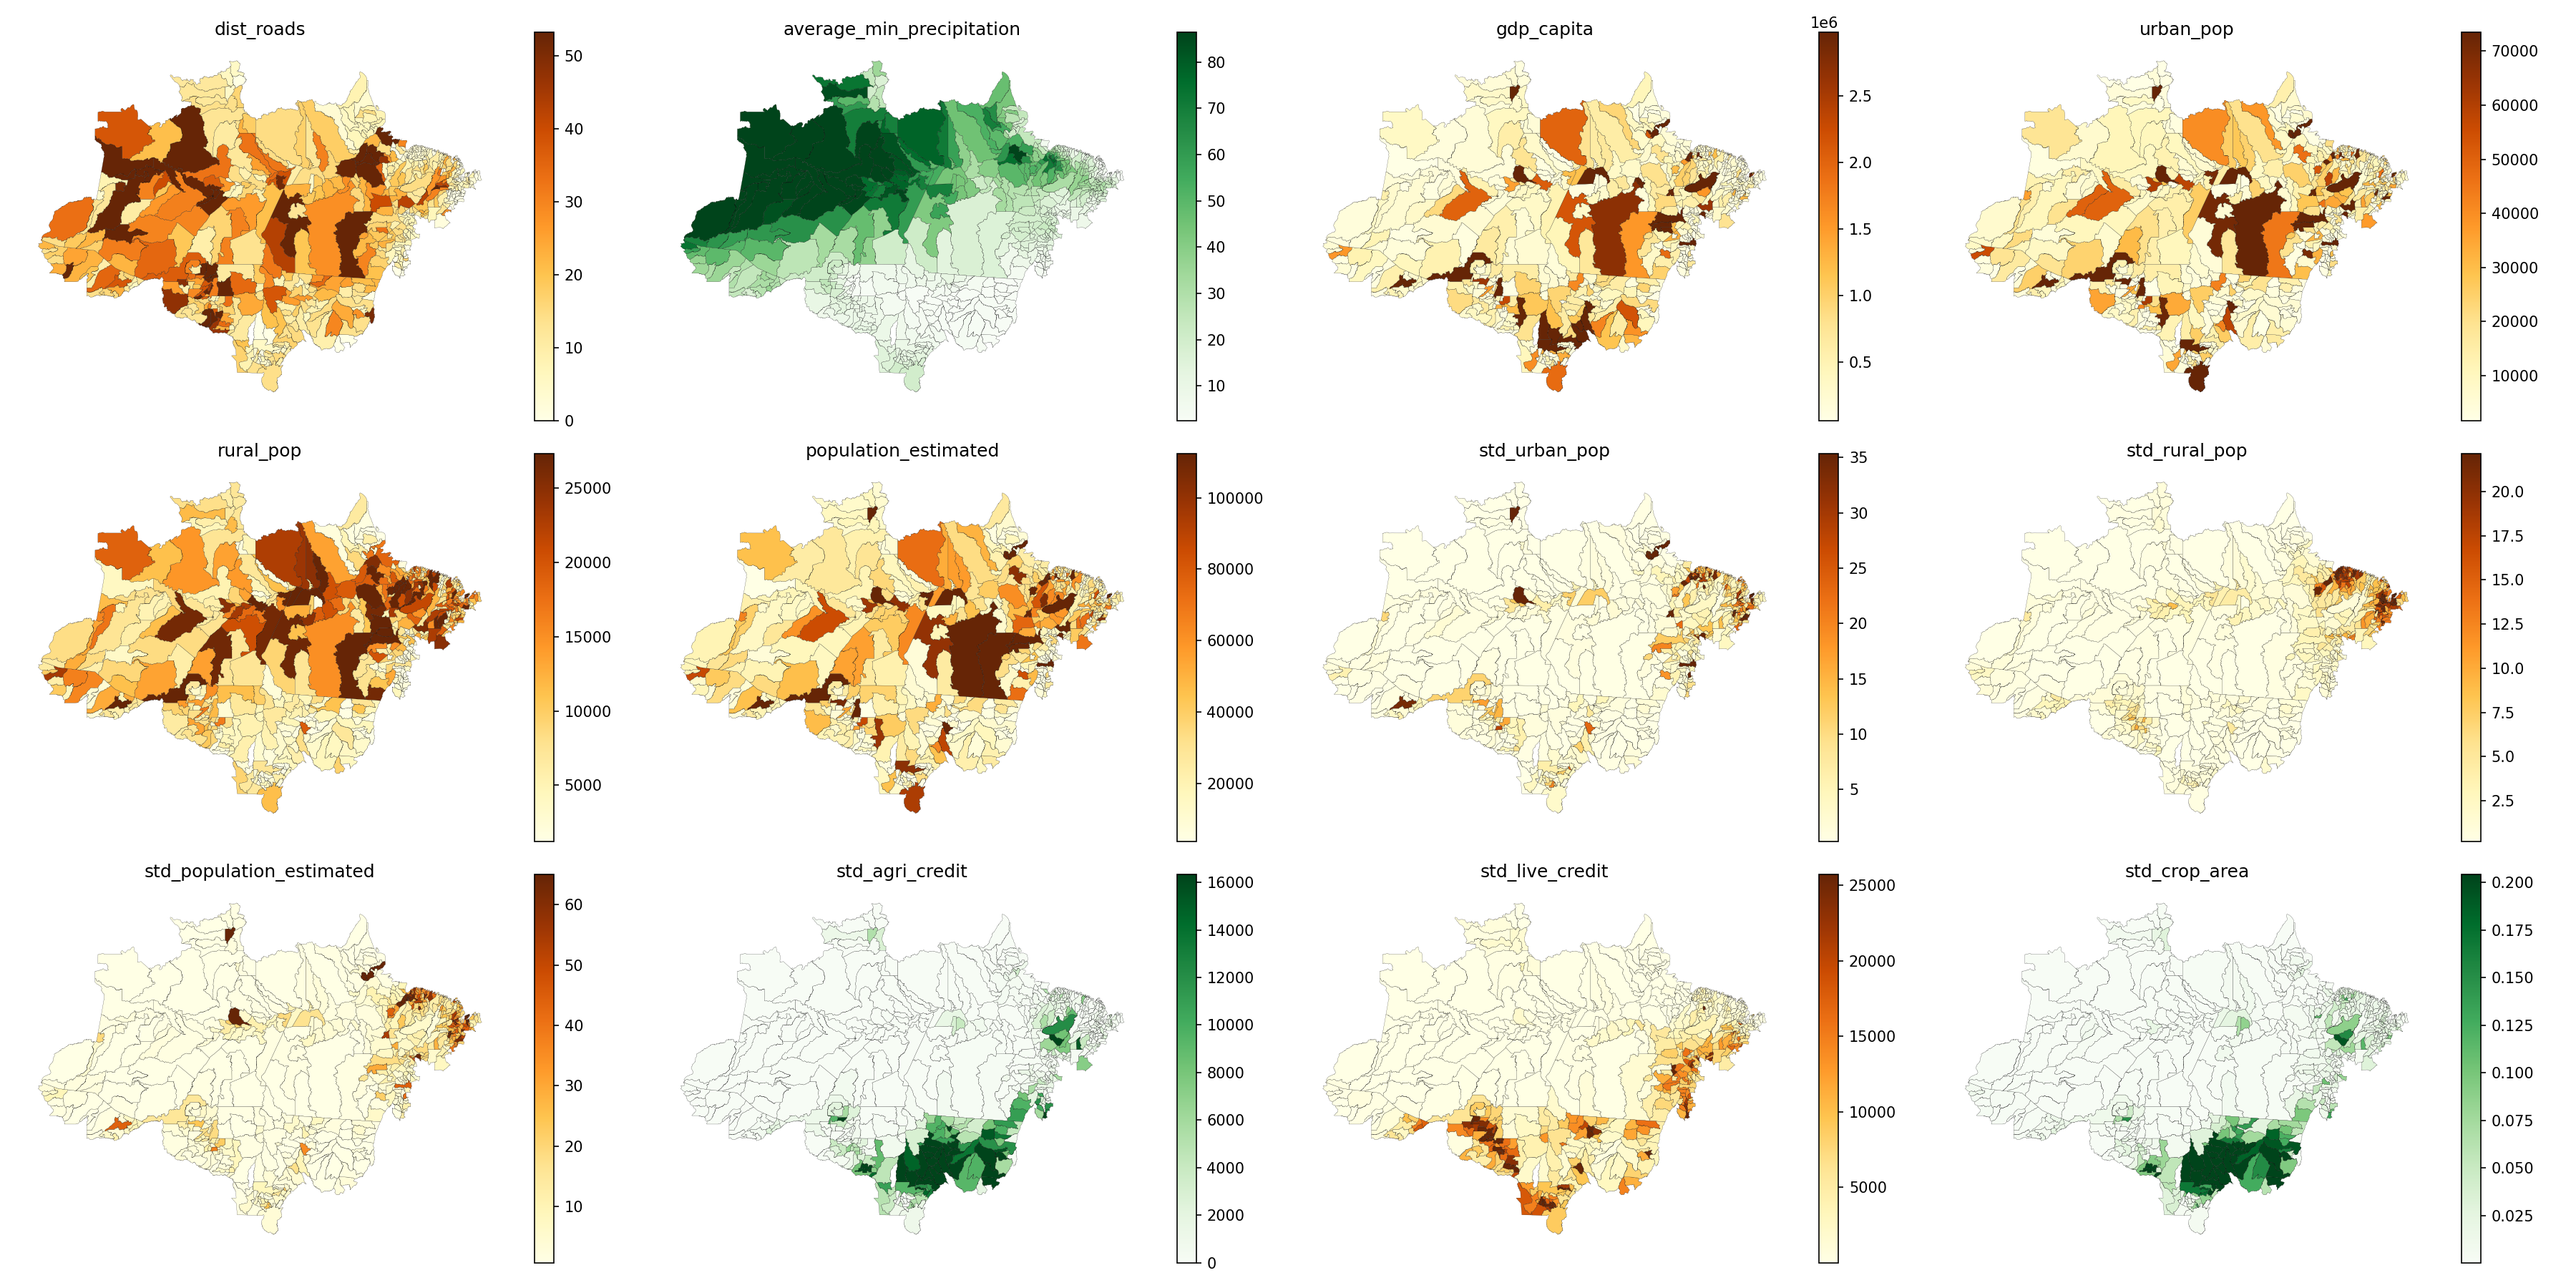
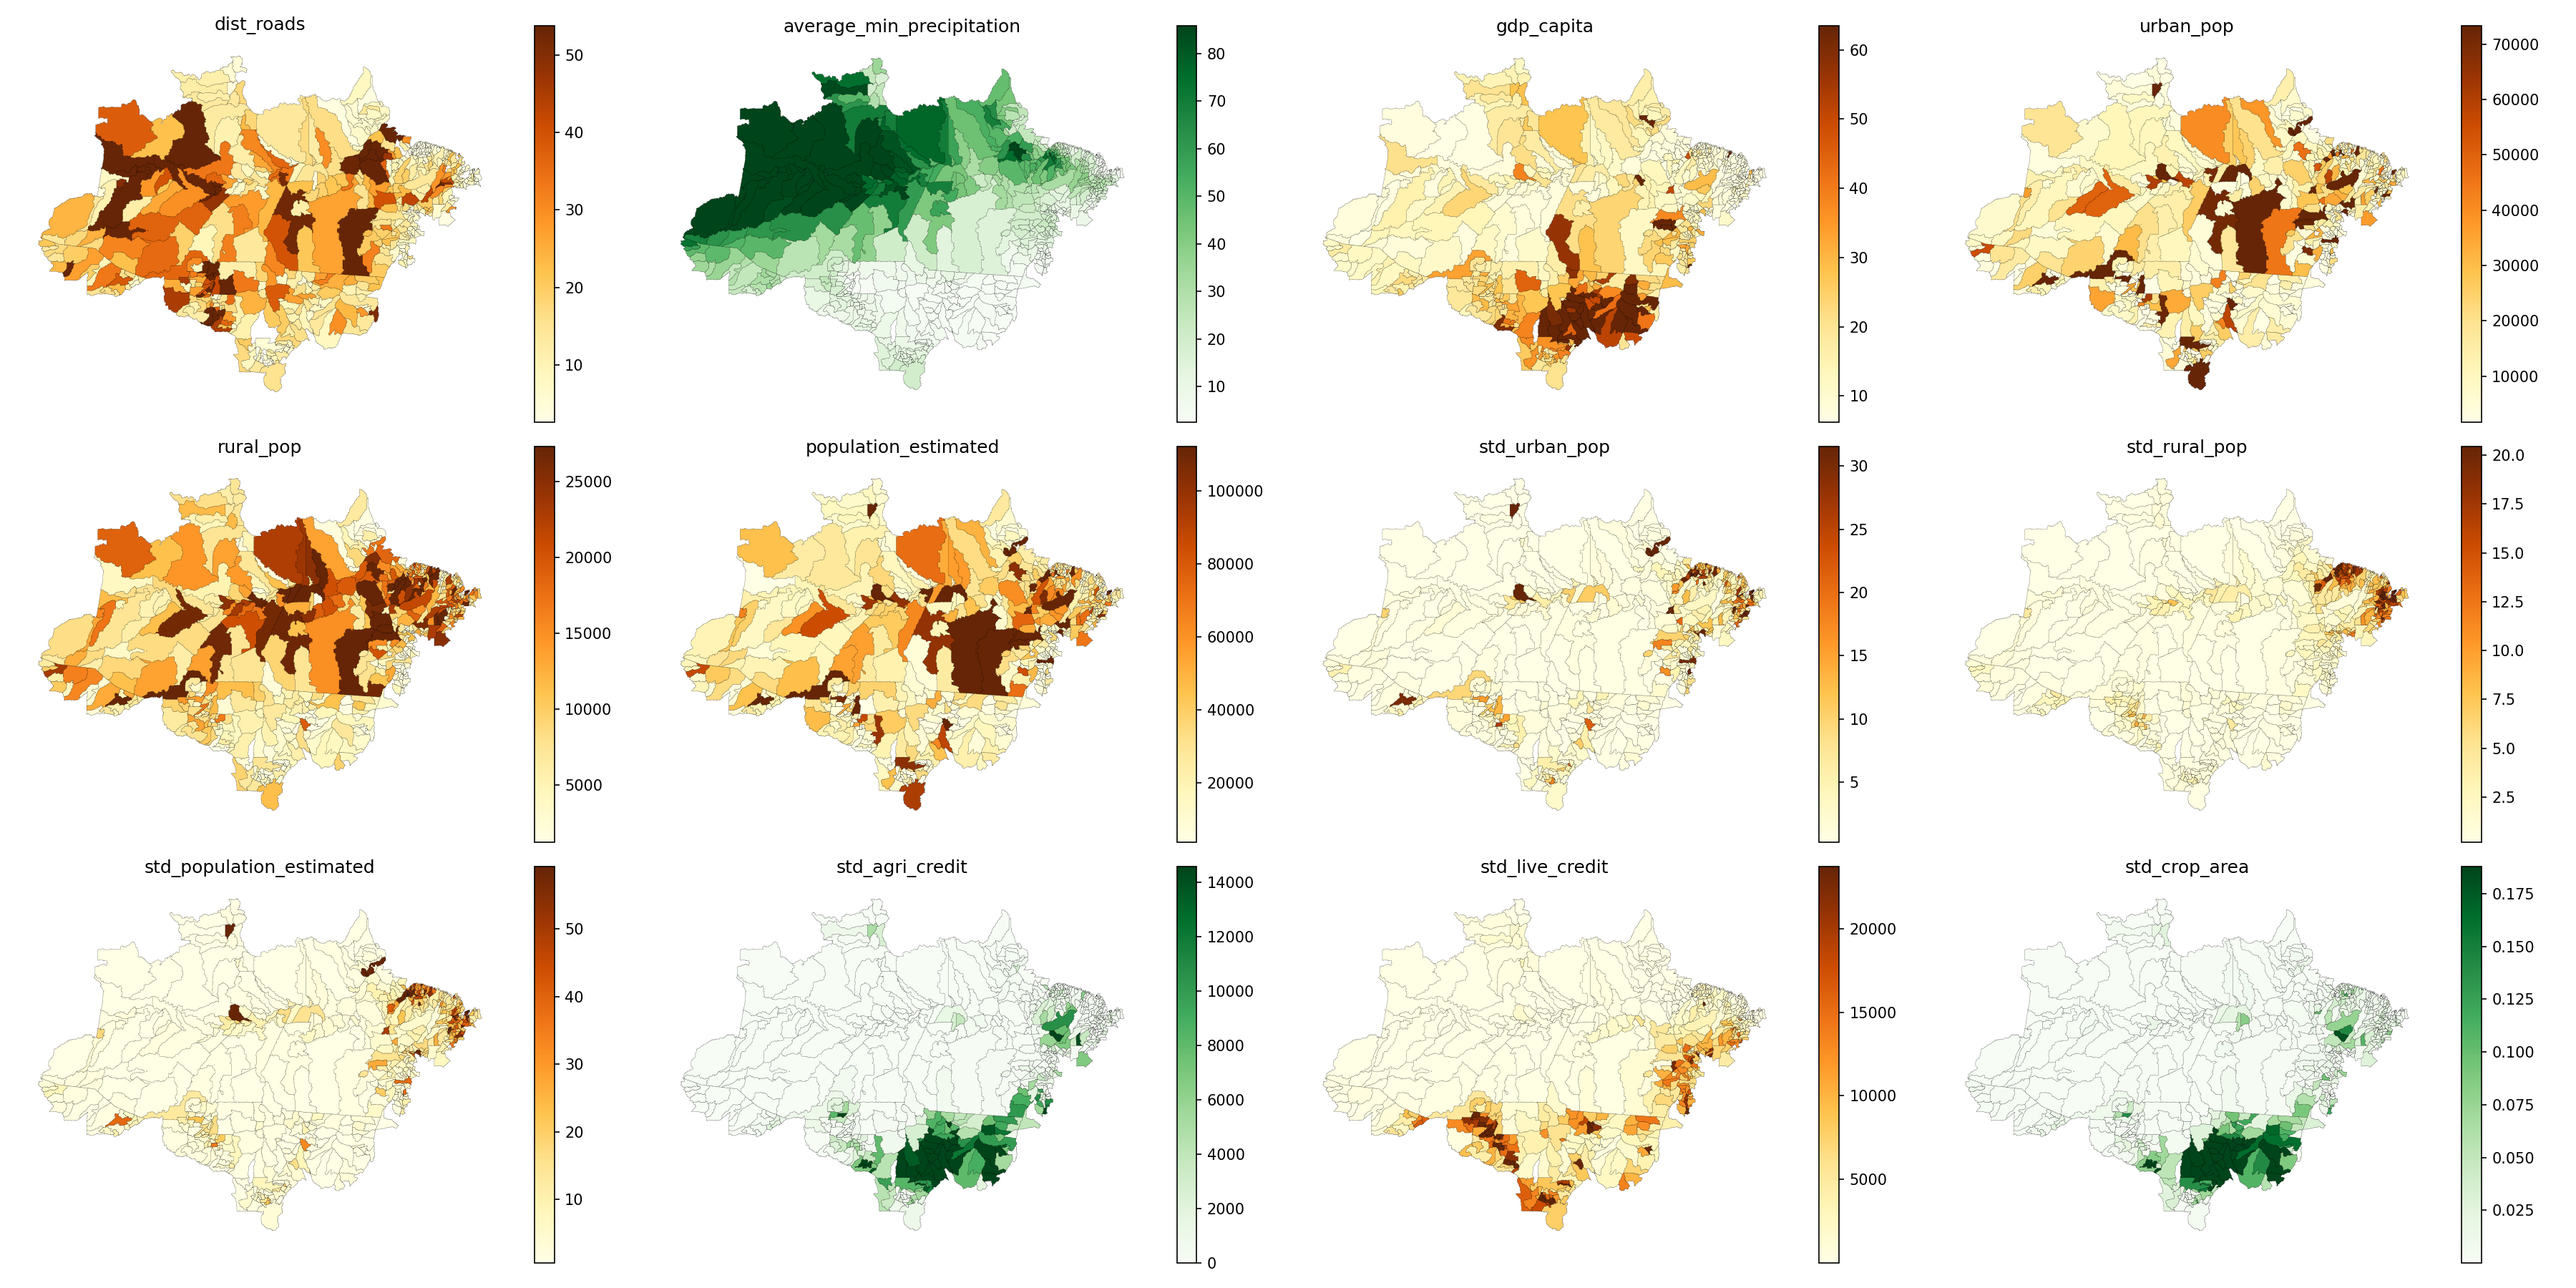
docs: corrige comparação dos coeficientes locais com o artigo (escala da resposta); registra rodada final de perf

diff --git a/models/run_models.py b/models/run_models.py
@@ -269,7 +269,7 @@ def run_paper(gdf, w, coords) -> dict:
     vifs = [variance_inflation_factor(sm.add_constant(X_raw), i) for i in range(1, X_raw.shape[1] + 1)]
     pd.DataFrame(
         {
-            "Name": ["Intercept"] + ["Average GDP per capita" if n == "gdp_capita" else n for n in cols],
+            "Name": ["Intercept"] + ["Average GDP per capita" if c == "gdp_capita" else c for c in cols],
             "Estimate": ols_raw.betas.flatten(),
             "Std.Err": ols_raw.std_err.flatten(),
             "VIF": ["-"] + [round(v, 2) for v in vifs],

diff --git a/README.md b/README.md
@@ -103,8 +103,11 @@ menos de 1%, como Pium-TO e Luciara-MT). Retirá-los não muda nada: Moran 0,510
 
 **GWR.** O artigo usou R (GWmodel) sem informar kernel nem critério de banda. O núcleo gaussiano (ou exponencial)
 **fixo, com banda por AICc**, reproduz o artigo: Δ AICc de −437 (−430 no exponencial) contra −430, R² ajustado de
-0,74 contra 0,70, e os quartis dos coeficientes locais (Tabela 3) são próximos para desmatamento (Q1 −7,9 mil vs
-−7,0 mil; mediana 4,9 mil vs 4,1 mil), PIB per capita (mediana 1,79 vs 1,71) e intercepto (mediana 71 vs 82). O
+0,74 contra 0,70. Os coeficientes locais (Tabela 3) só são comparáveis na escala do artigo (taxa anual): a
+resposta daqui é a média das incidências semanais, então os coeficientes saem ~52 vezes menores. Com a soma anual, o
+intercepto tem mediana 80 (artigo 82) e o PIB per capita 1,50 (1,71); o desmatamento fica na mesma ordem de grandeza,
+mas com sinal e quartis diferentes (mediana −1,8 mil vs 4,1 mil; Q1 −29 mil vs −7,0 mil), e os créditos dependem da
+unidade usada pelo artigo, que não é informada. O
 bisquare adaptativo, usado no baseline, dá R² ajustado de 0,46. Por isso os cenários 3 e 4 usam GWR fixo gaussiano
 (`fit_gwr_fixed`); os cenários 1 e 2 mantêm o bisquare adaptativo.
 

diff --git a/PERF.md b/PERF.md
@@ -9,3 +9,5 @@
 Todas as colunas numéricas do CSV processado e as métricas dos modelos saíram idênticas às anteriores.
 
 Limpeza final: 1.402 → 866 linhas nos scripts (download 332 → 187, pré-processamento 202 → 159, EDA 158 → 124, modelos 389 → 396 com helpers; o monitor `polymarket-monitor.py`, sem relação com o projeto, foi removido, e a dependência scikit-learn, não usada). Pré-processamento e modelos com saídas idênticas às anteriores.
+
+Rodada final (perfil de `run_models.py`, 12,4 s no `main`): os dois `Sel_BW`/GWR gaussiano fixo do artigo levam 6,0 s, o restante (bisquare 0,9 s, gráficos ~2,5 s, hierárquico 0,5 s, Moran 0,8 s) é plano. Descartado: reescrever a busca de banda do kernel fixo em lote (`gwr_aicc` só cobre o adaptativo); economizaria ~5 s ao custo de outra função de ~25 linhas. Pré-processamento (12,5 s, 1,7 GB) e EDA (13,6 s, 0,4 GB) sem gargalo único. Nenhuma mudança de desempenho nesta rodada.
